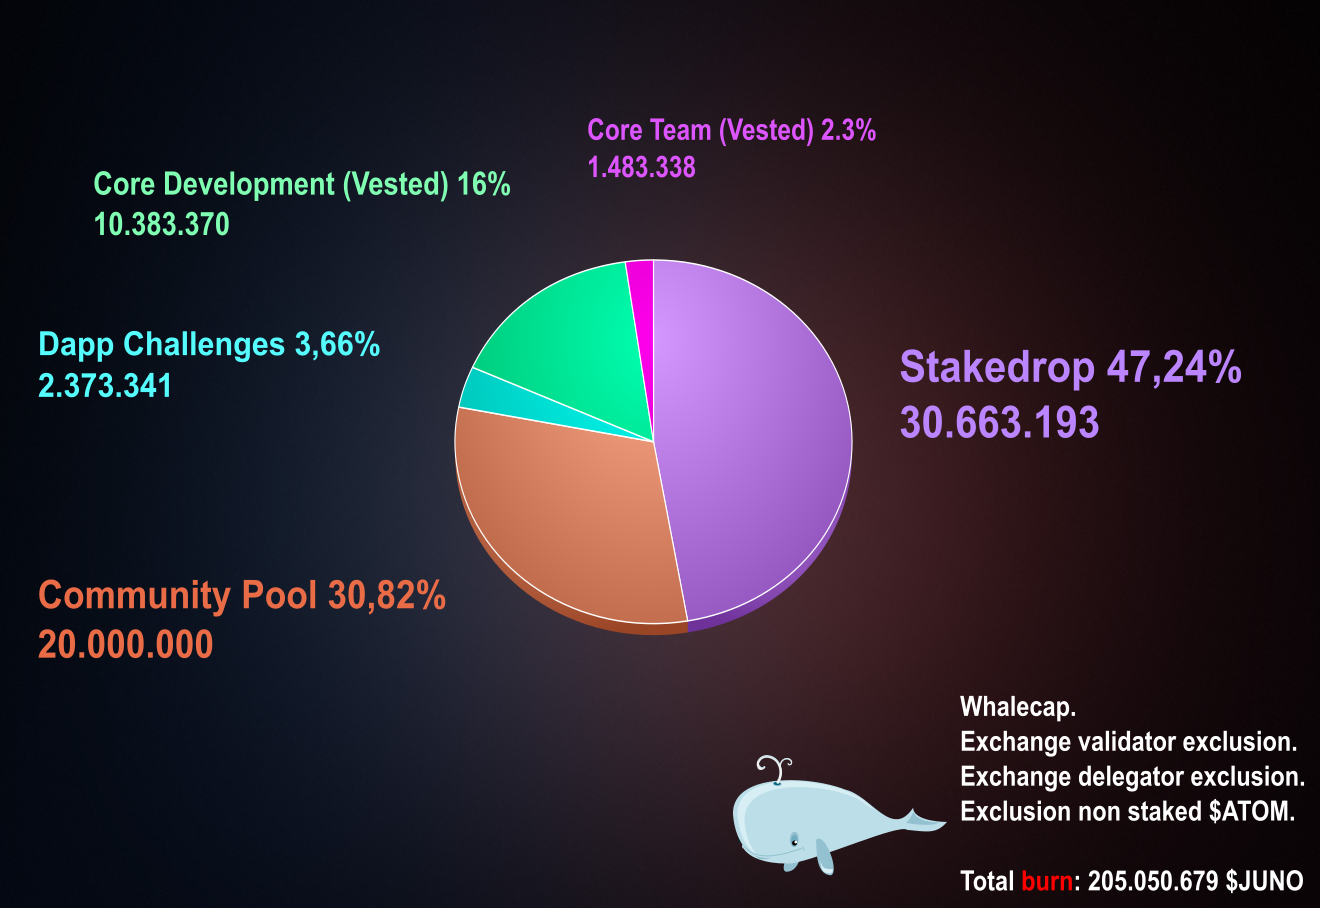
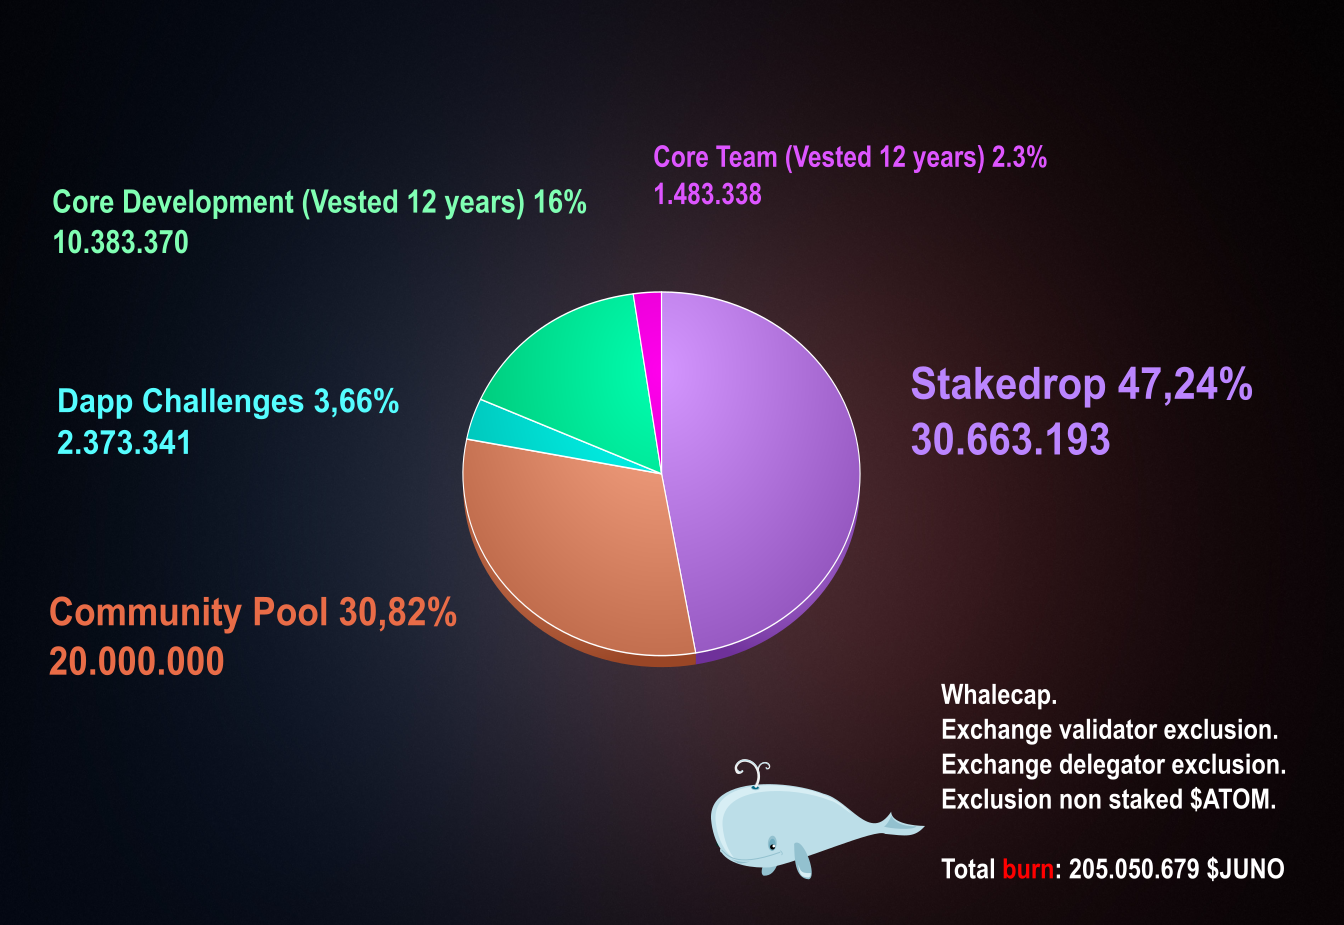
GitBook: [master] 43 pages and 4 assets modified

diff --git a/juno/economic-overview/asset.md b/juno/economic-overview/asset.md
@@ -12,7 +12,9 @@ JUNO, the native asset of the network carries a variety of use cases within the 
 
 ⚪ Smart Contract **Challenges**: 2.373.341 $JUNO
 
-⚪ **Core** **Development Reserve** \(Multi-sig\): 11.866.708 $JUNO \(70.83% tb. staked and inflation used to fund core development, 16.67% allocated to smart contract challenges & ecosystem growth initiatives, 12.5% vested for 12 years\)
+⚪ **Core** **Development Reserve** \(Vested 12 years\)**:** 10.383.370 $JUNO
+
+⚪ **Core Team** \(Vested 12 years\): 1.483.338 $JUNO
 
   
 ✅ Circulating supply at genesis 64.903.243 $JUNO
